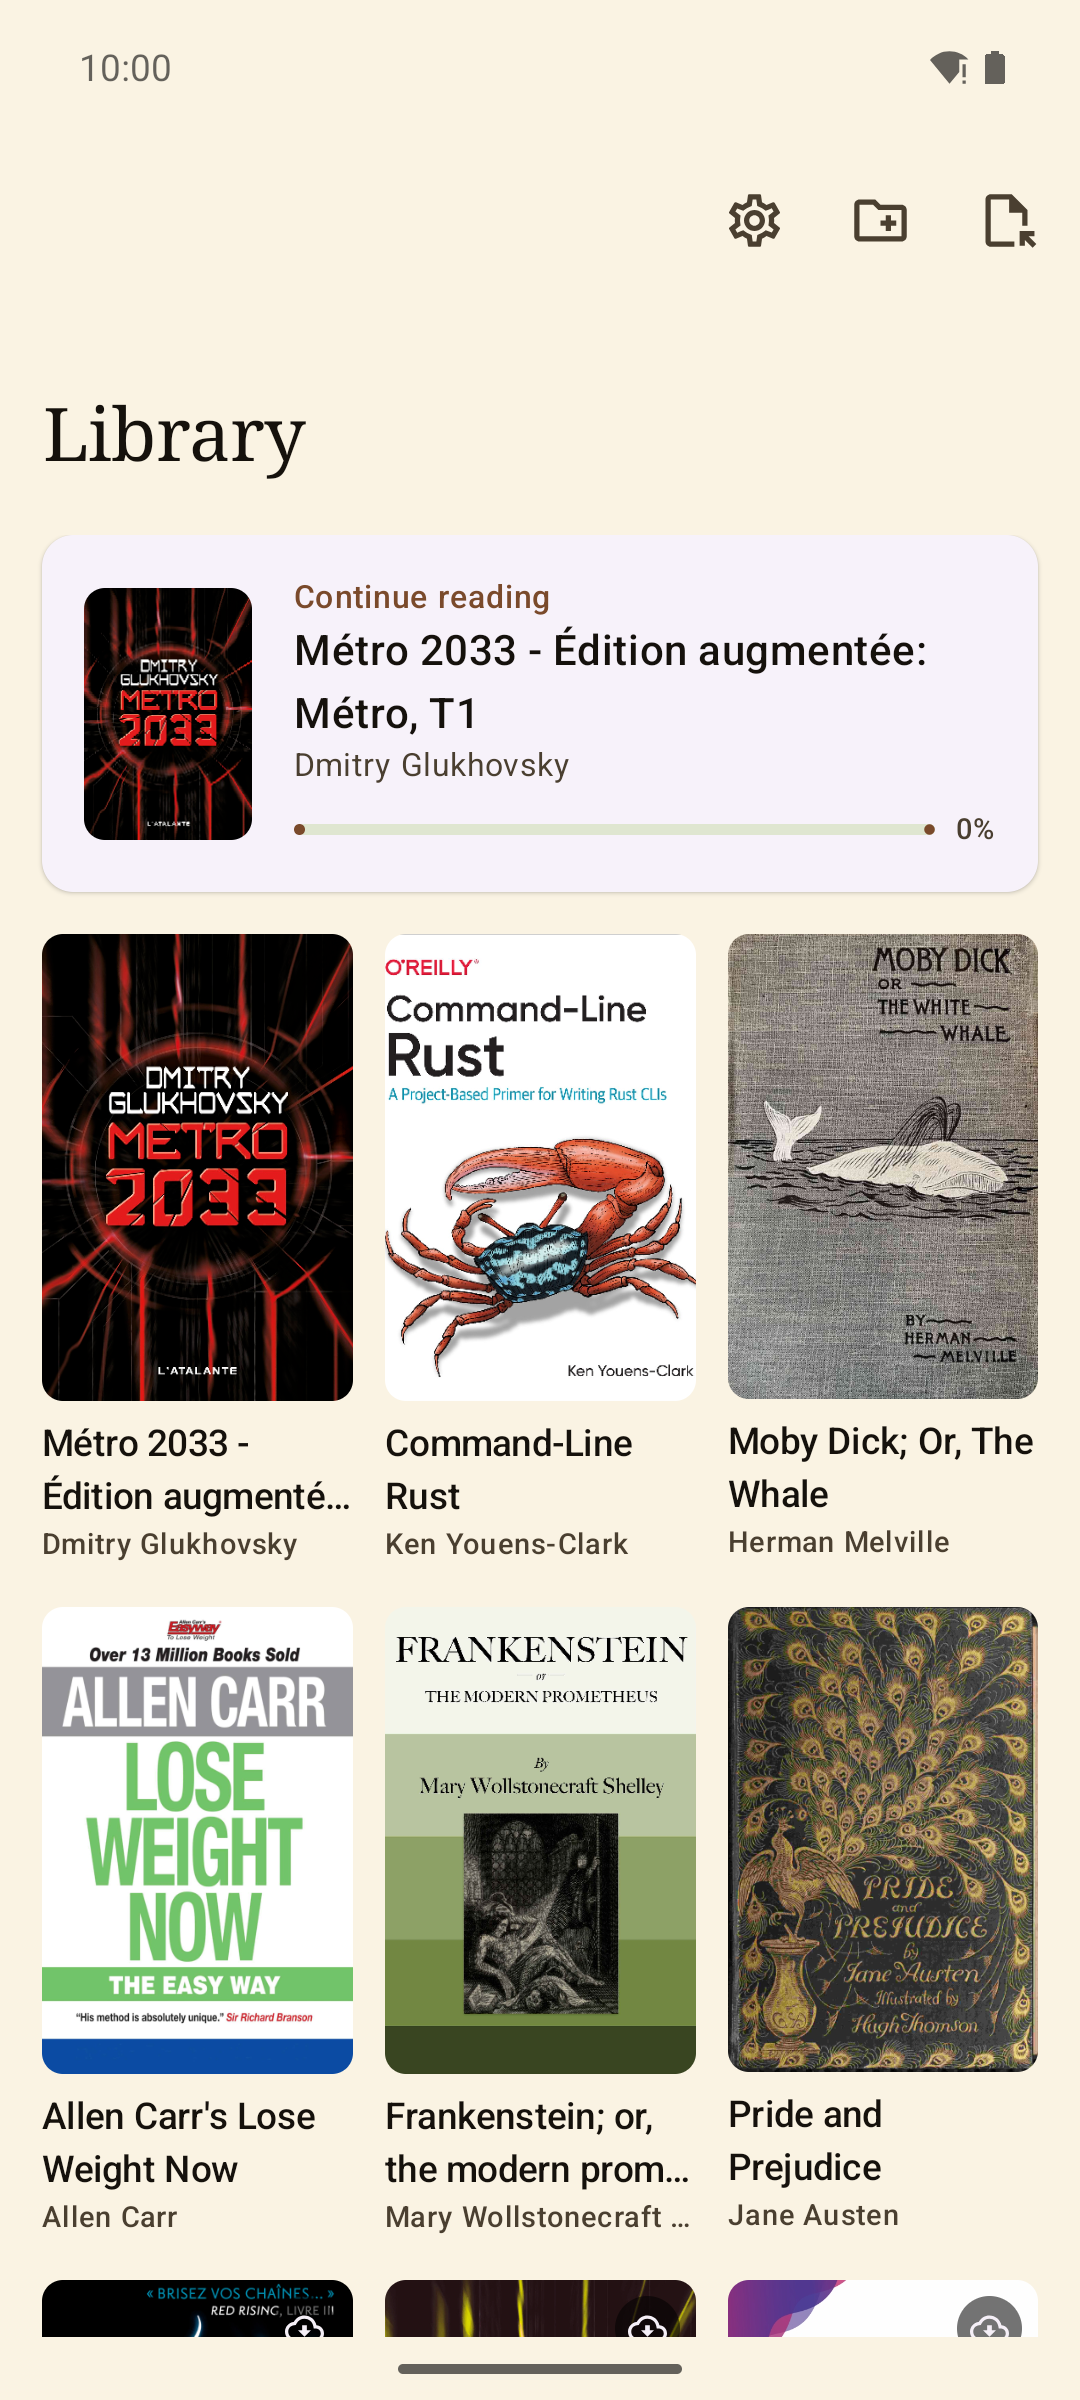
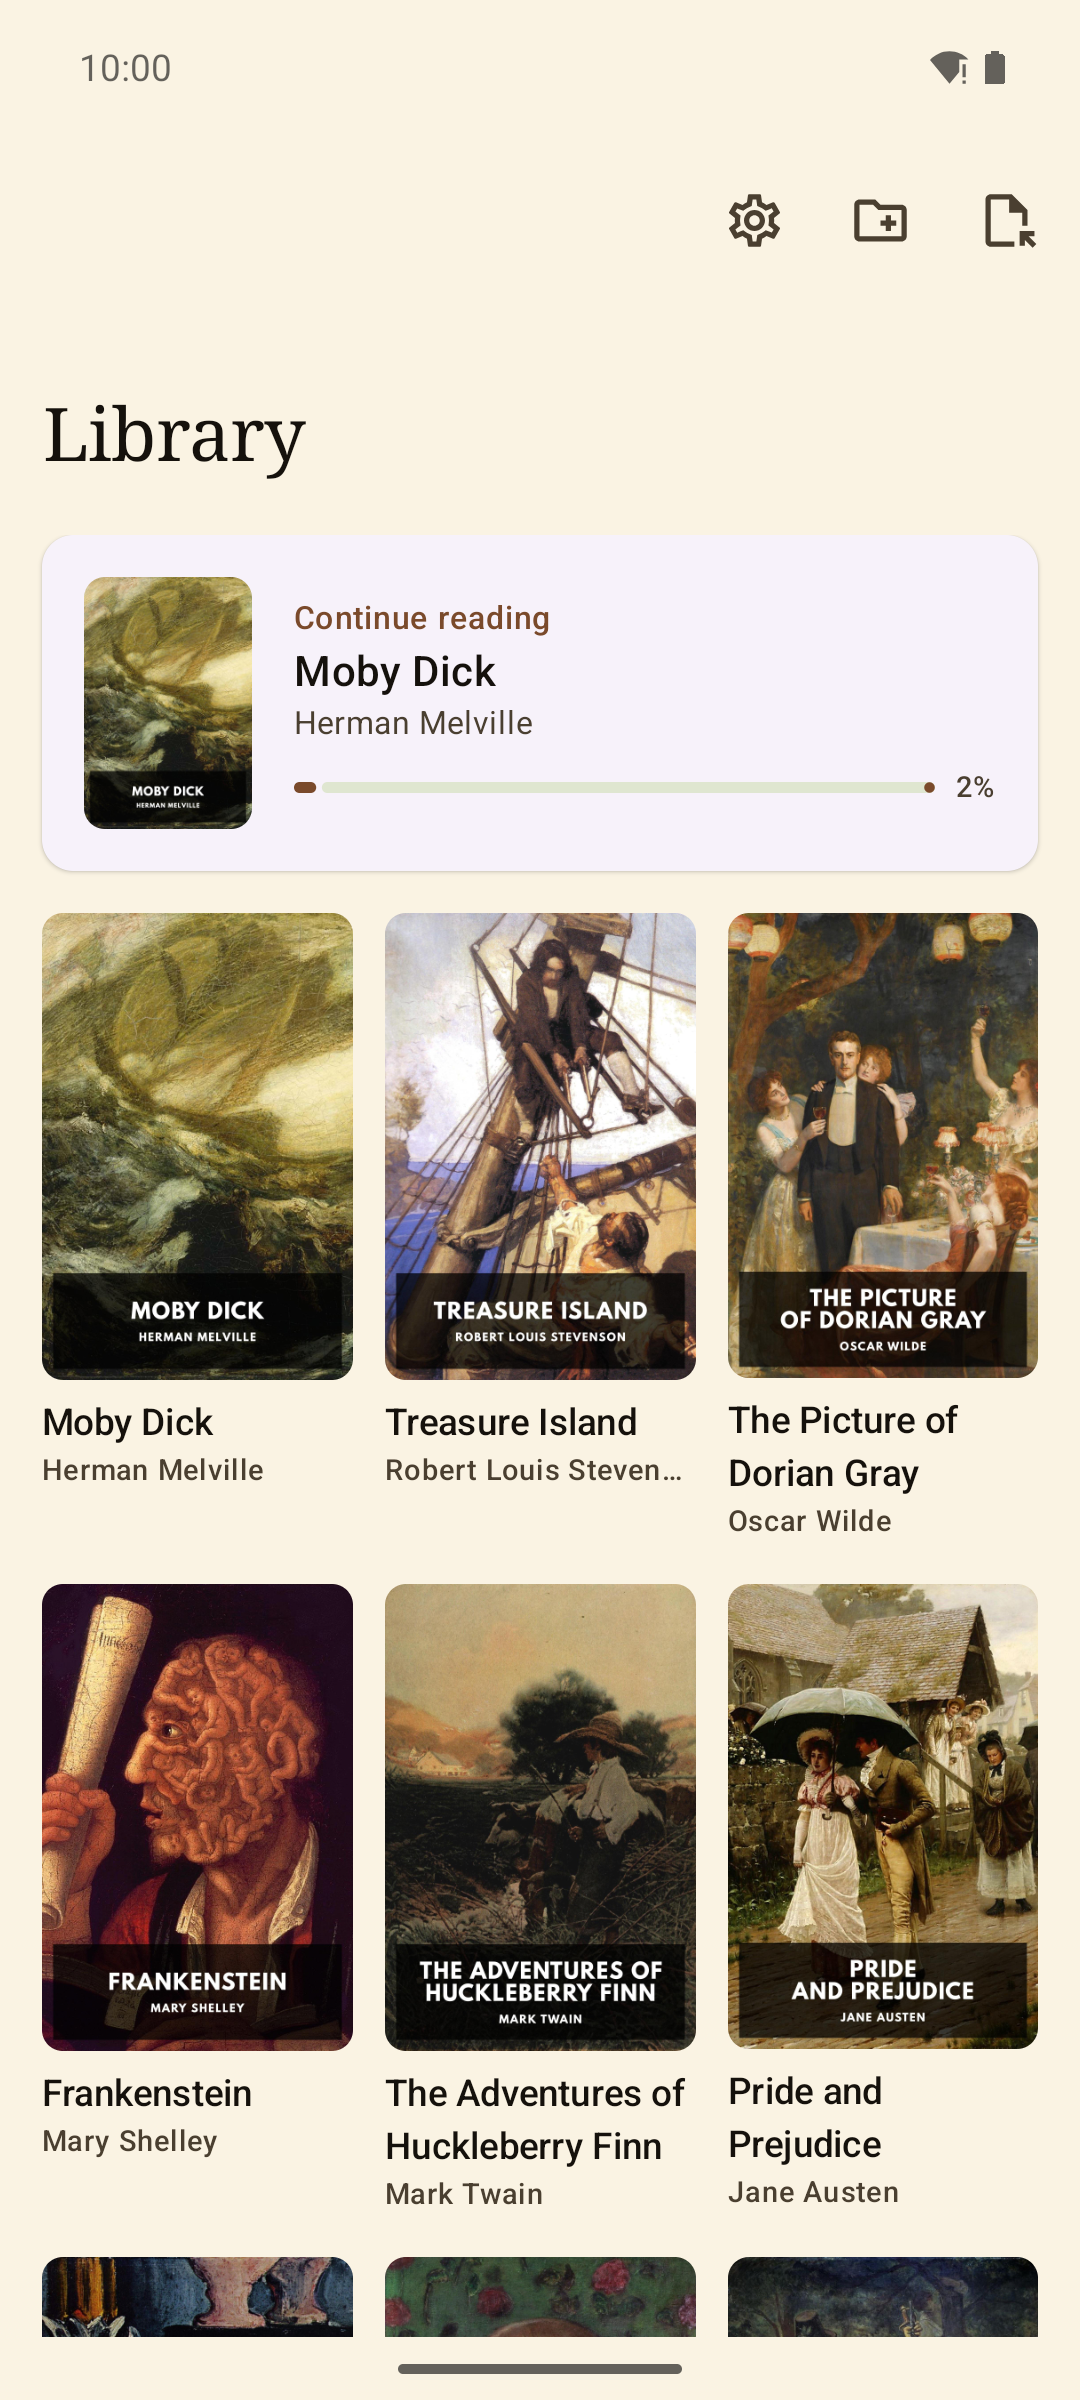
docs: screenshots we can actually publish
The old shelf was full of books I happen to own, whose covers are not
mine to put in a README or on F-Droid. It is now a shelf of Standard
Ebooks editions, which are public domain, cover art included.

The set is wider too: the notebook, in-book search, the calibre-web
setup screen, and a dark pair for the shelf and the page. The reader is
shown mid-book with a highlight and a bookmark on the page rather than
sitting on a cover, so the screens show the thing they are named after.
Each one is captioned in the README.

hack/screenshots picks the reading theme explicitly instead of trusting
whatever the device was left on, which is what stopped the light set
from quietly coming out dark on a rerun.

diff --git a/README.md b/README.md
@@ -4,12 +4,47 @@ An open-source EPUB reader and calibre-web client for Android: a modern
 reader that is equally at home with the files on your phone and with a
 [calibre-web](https://github.com/janeczku/calibre-web) server.
 
-<p align="center">
-  <img src="docs/screenshots/01-library.png" width="24%" alt="Library">
-  <img src="docs/screenshots/02-reading.png" width="24%" alt="Reading">
-  <img src="docs/screenshots/04-typography.png" width="24%" alt="Typography">
-  <img src="docs/screenshots/06-settings.png" width="24%" alt="Settings">
-</p>
+<table>
+  <tr>
+    <td width="25%"><img src="docs/screenshots/01-library.png" alt="Library"></td>
+    <td width="25%"><img src="docs/screenshots/02-reading.png" alt="Reading"></td>
+    <td width="25%"><img src="docs/screenshots/03-chrome.png" alt="Reading controls"></td>
+    <td width="25%"><img src="docs/screenshots/04-typography.png" alt="Typography"></td>
+  </tr>
+  <tr>
+    <td align="center"><sub>The shelf, with whatever you were last reading on top.</sub></td>
+    <td align="center"><sub>A full page of text, a highlight, a bookmark ribbon.</sub></td>
+    <td align="center"><sub>Tap the middle for progress, the scrubber and time left.</sub></td>
+    <td align="center"><sub>Reading themes, fonts, size, spacing, brightness.</sub></td>
+  </tr>
+  <tr>
+    <td><img src="docs/screenshots/05-contents.png" alt="Contents"></td>
+    <td><img src="docs/screenshots/06-highlights.png" alt="Highlights"></td>
+    <td><img src="docs/screenshots/07-search.png" alt="Search"></td>
+    <td><img src="docs/screenshots/08-settings.png" alt="Settings"></td>
+  </tr>
+  <tr>
+    <td align="center"><sub>Contents on a full screen, so long books stay navigable.</sub></td>
+    <td align="center"><sub>Everything you marked up, exportable as Markdown.</sub></td>
+    <td align="center"><sub>Search the whole book, with a snippet around each hit.</sub></td>
+    <td align="center"><sub>Theme, volume keys, and where your books come from.</sub></td>
+  </tr>
+  <tr>
+    <td><img src="docs/screenshots/09-calibre.png" alt="calibre-web setup"></td>
+    <td><img src="docs/screenshots/10-library-dark.png" alt="Library in dark mode"></td>
+    <td><img src="docs/screenshots/11-reading-dark.png" alt="Reading in the dark theme"></td>
+    <td></td>
+  </tr>
+  <tr>
+    <td align="center"><sub>An address, a username, a password. Liseur works out the rest.</sub></td>
+    <td align="center"><sub>The same shelf after dark.</sub></td>
+    <td align="center"><sub>The Dark page theme, chosen separately from the app's.</sub></td>
+    <td></td>
+  </tr>
+</table>
+
+<sub>Screenshots use <a href="https://standardebooks.org">Standard Ebooks</a>
+editions, which are in the public domain.</sub>
 
 ## What it does
 
@@ -30,7 +65,7 @@ left in the book, page, or percentage; tap it to cycle. A scrubber with
 chapter ticks, and a pill that takes you back if you jumped somewhere by
 accident.
 
-**Marking up.** Highlights in five colours, notes, bookmarks with a
+**Marking up.** Highlights in four colours, notes, bookmarks with a
 Kindle-style corner ribbon, and a notebook of everything you have marked
 in a book, exportable as Markdown.
 

diff --git a/DEVELOPER.md b/DEVELOPER.md
@@ -222,10 +222,16 @@ hack/screenshots            # docs/screenshots + fastlane phoneScreenshots
 hack/icon                   # fastlane icon.png, from the vector drawables
 ```
 
-`hack/screenshots` drives a connected device through adb, so it needs the
-app installed with a few books in its library — and its output is worth
-looking at before committing, because a changed layout can silently
-produce the wrong screen.
+`hack/screenshots` drives a connected device through adb, so the device
+has to be prepared first: the app installed with a library folder
+granted, a shelf of books whose covers are safe to publish (the
+[Standard Ebooks](https://standardebooks.org) public domain editions are
+what the current set uses), the most recently read book carrying a few
+highlights, notes and bookmarks, and calibre-web signed out unless your
+server holds only books you would publish a picture of. It captures a
+light set and a dark set, and its output is worth looking at before
+committing, because a changed layout can silently produce the wrong
+screen.
 
 ## F-Droid readiness
 
